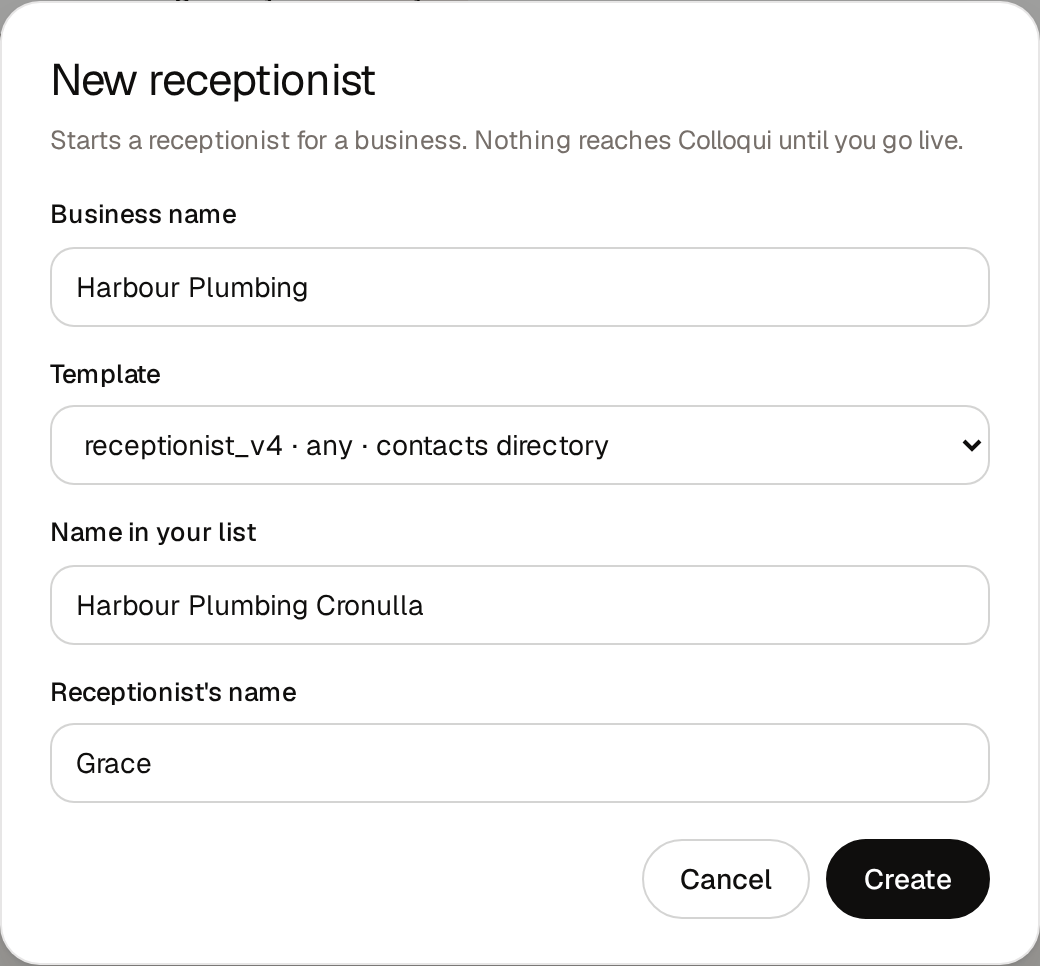
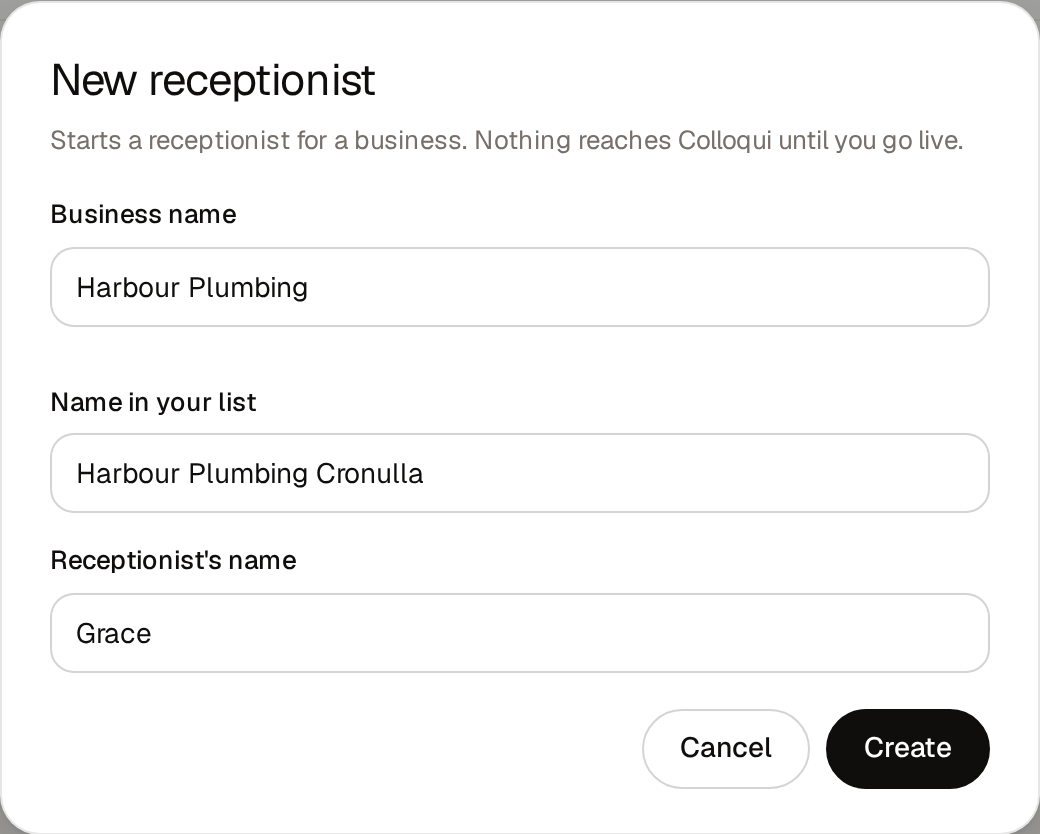
Follow the shorter side menu: no Activity, People under Settings
The application's side menu is now Receptionists, Calls, Billing and
Settings. The Activity page is removed (its address redirects to People
and roles), People is described as a tab of Settings, and the Template
choice is gone from the New receptionist box. Eleven pictures retaken;
the three Activity pictures deleted.

diff --git a/AGENTS.md b/AGENTS.md
@@ -17,7 +17,7 @@ their customers. Not developers. Every page must make sense to someone who has n
 - "receptionist", never "agent" or "bot".
 - "workspace" for the account a business's receptionists live in.
 - "caller" for a person who rings.
-- "People and teams" are who callers can be put through to. "People" (side menu) are who can sign in. Keep them apart.
+- "People and teams" are who callers can be put through to. "People" (a tab of Settings) are who can sign in. Keep them apart.
 
 ## Style
 
